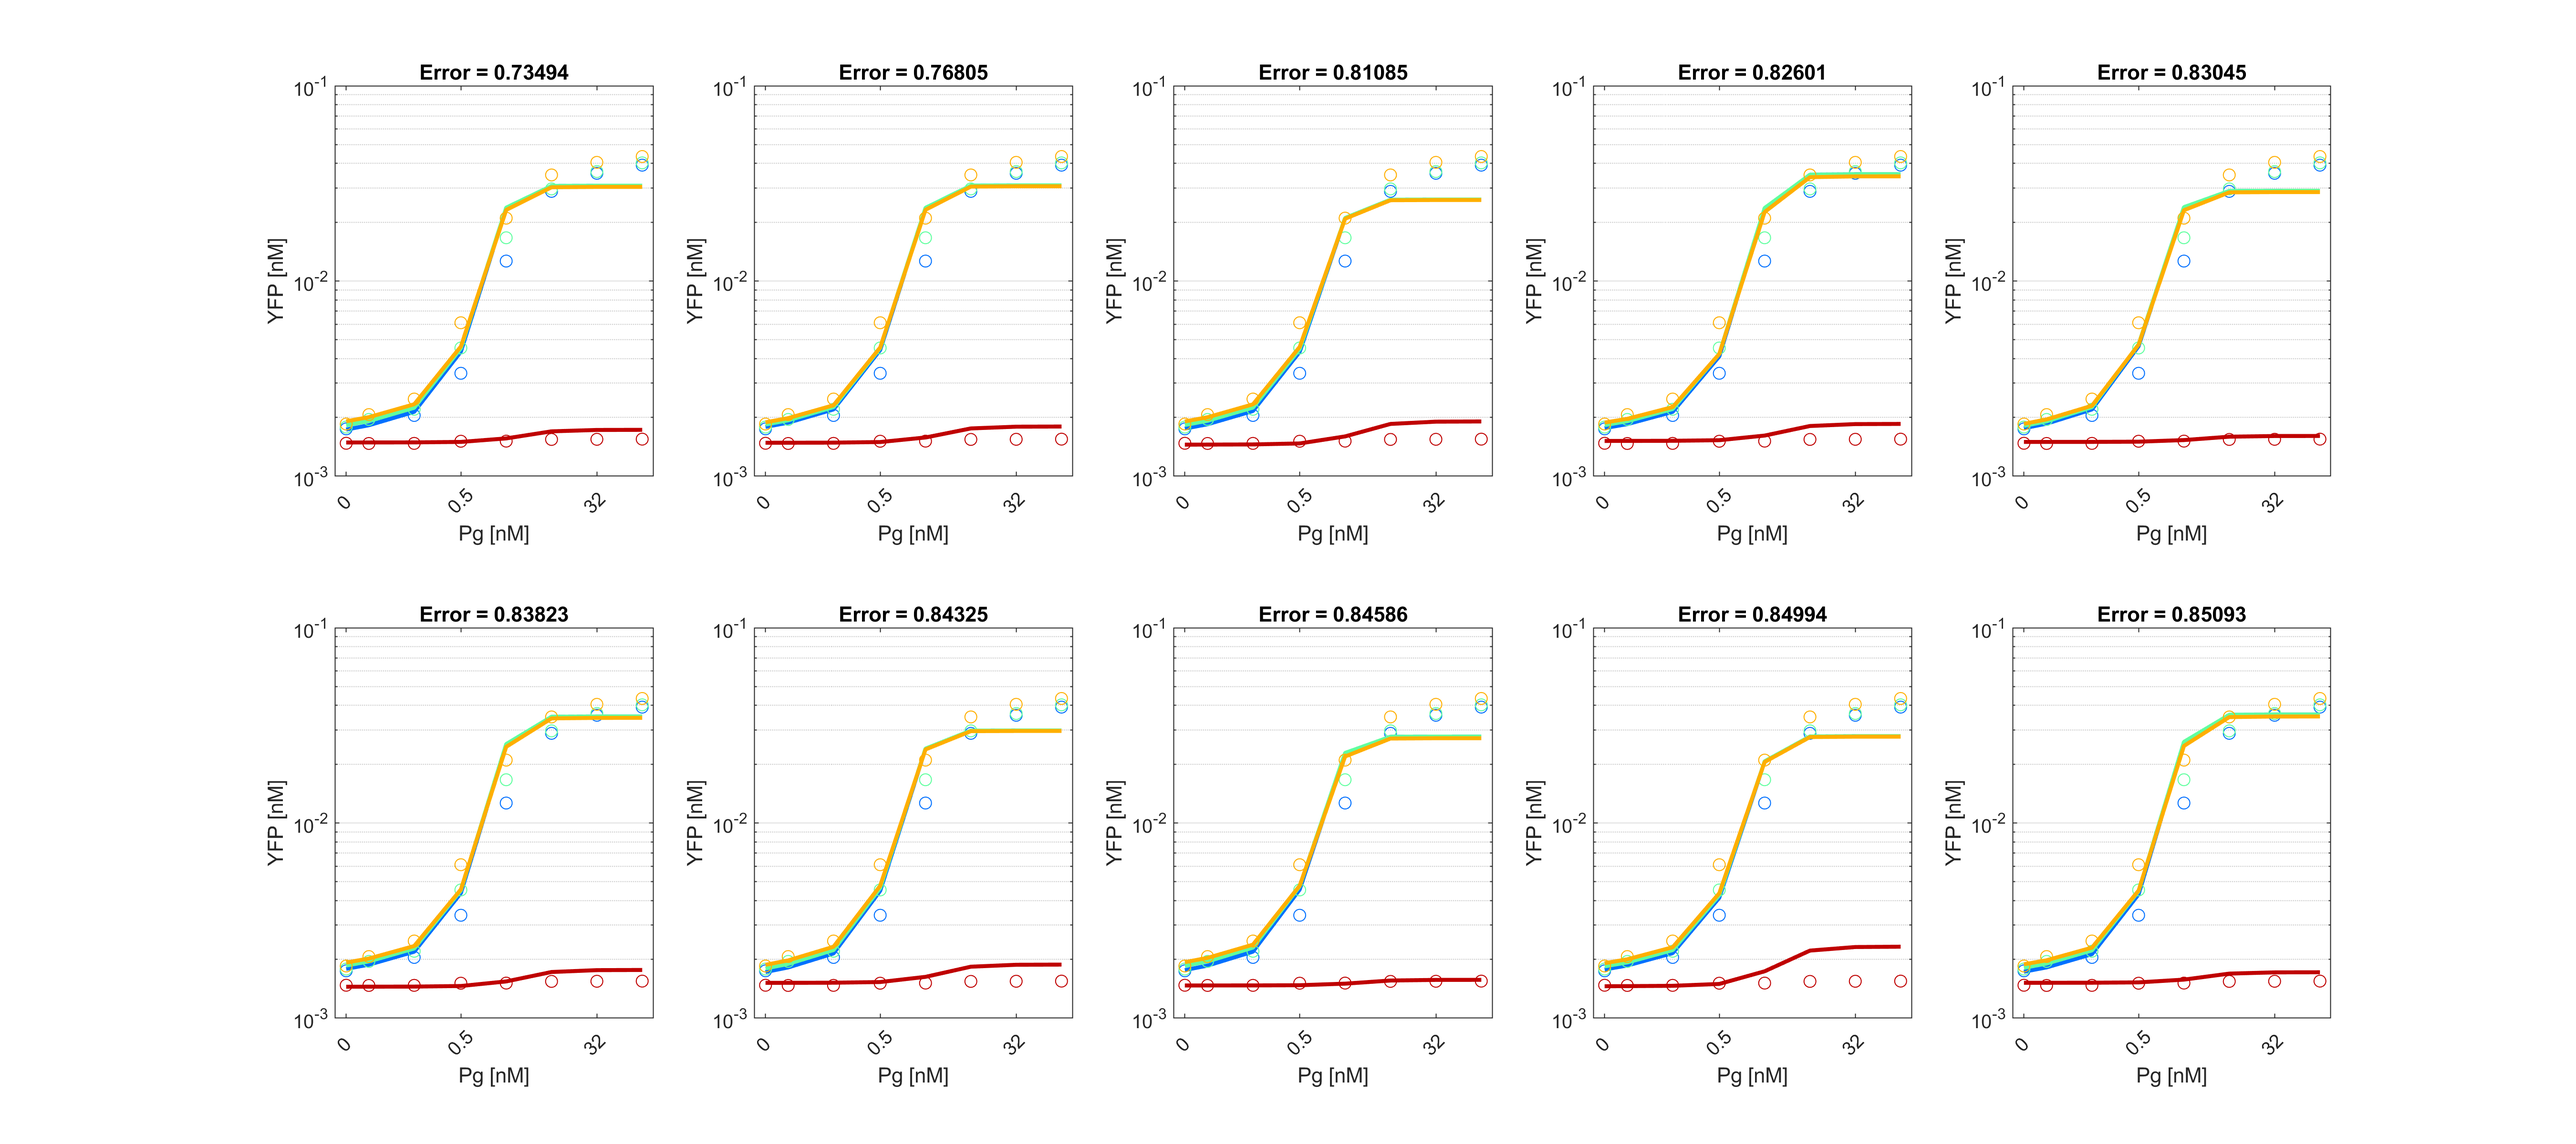
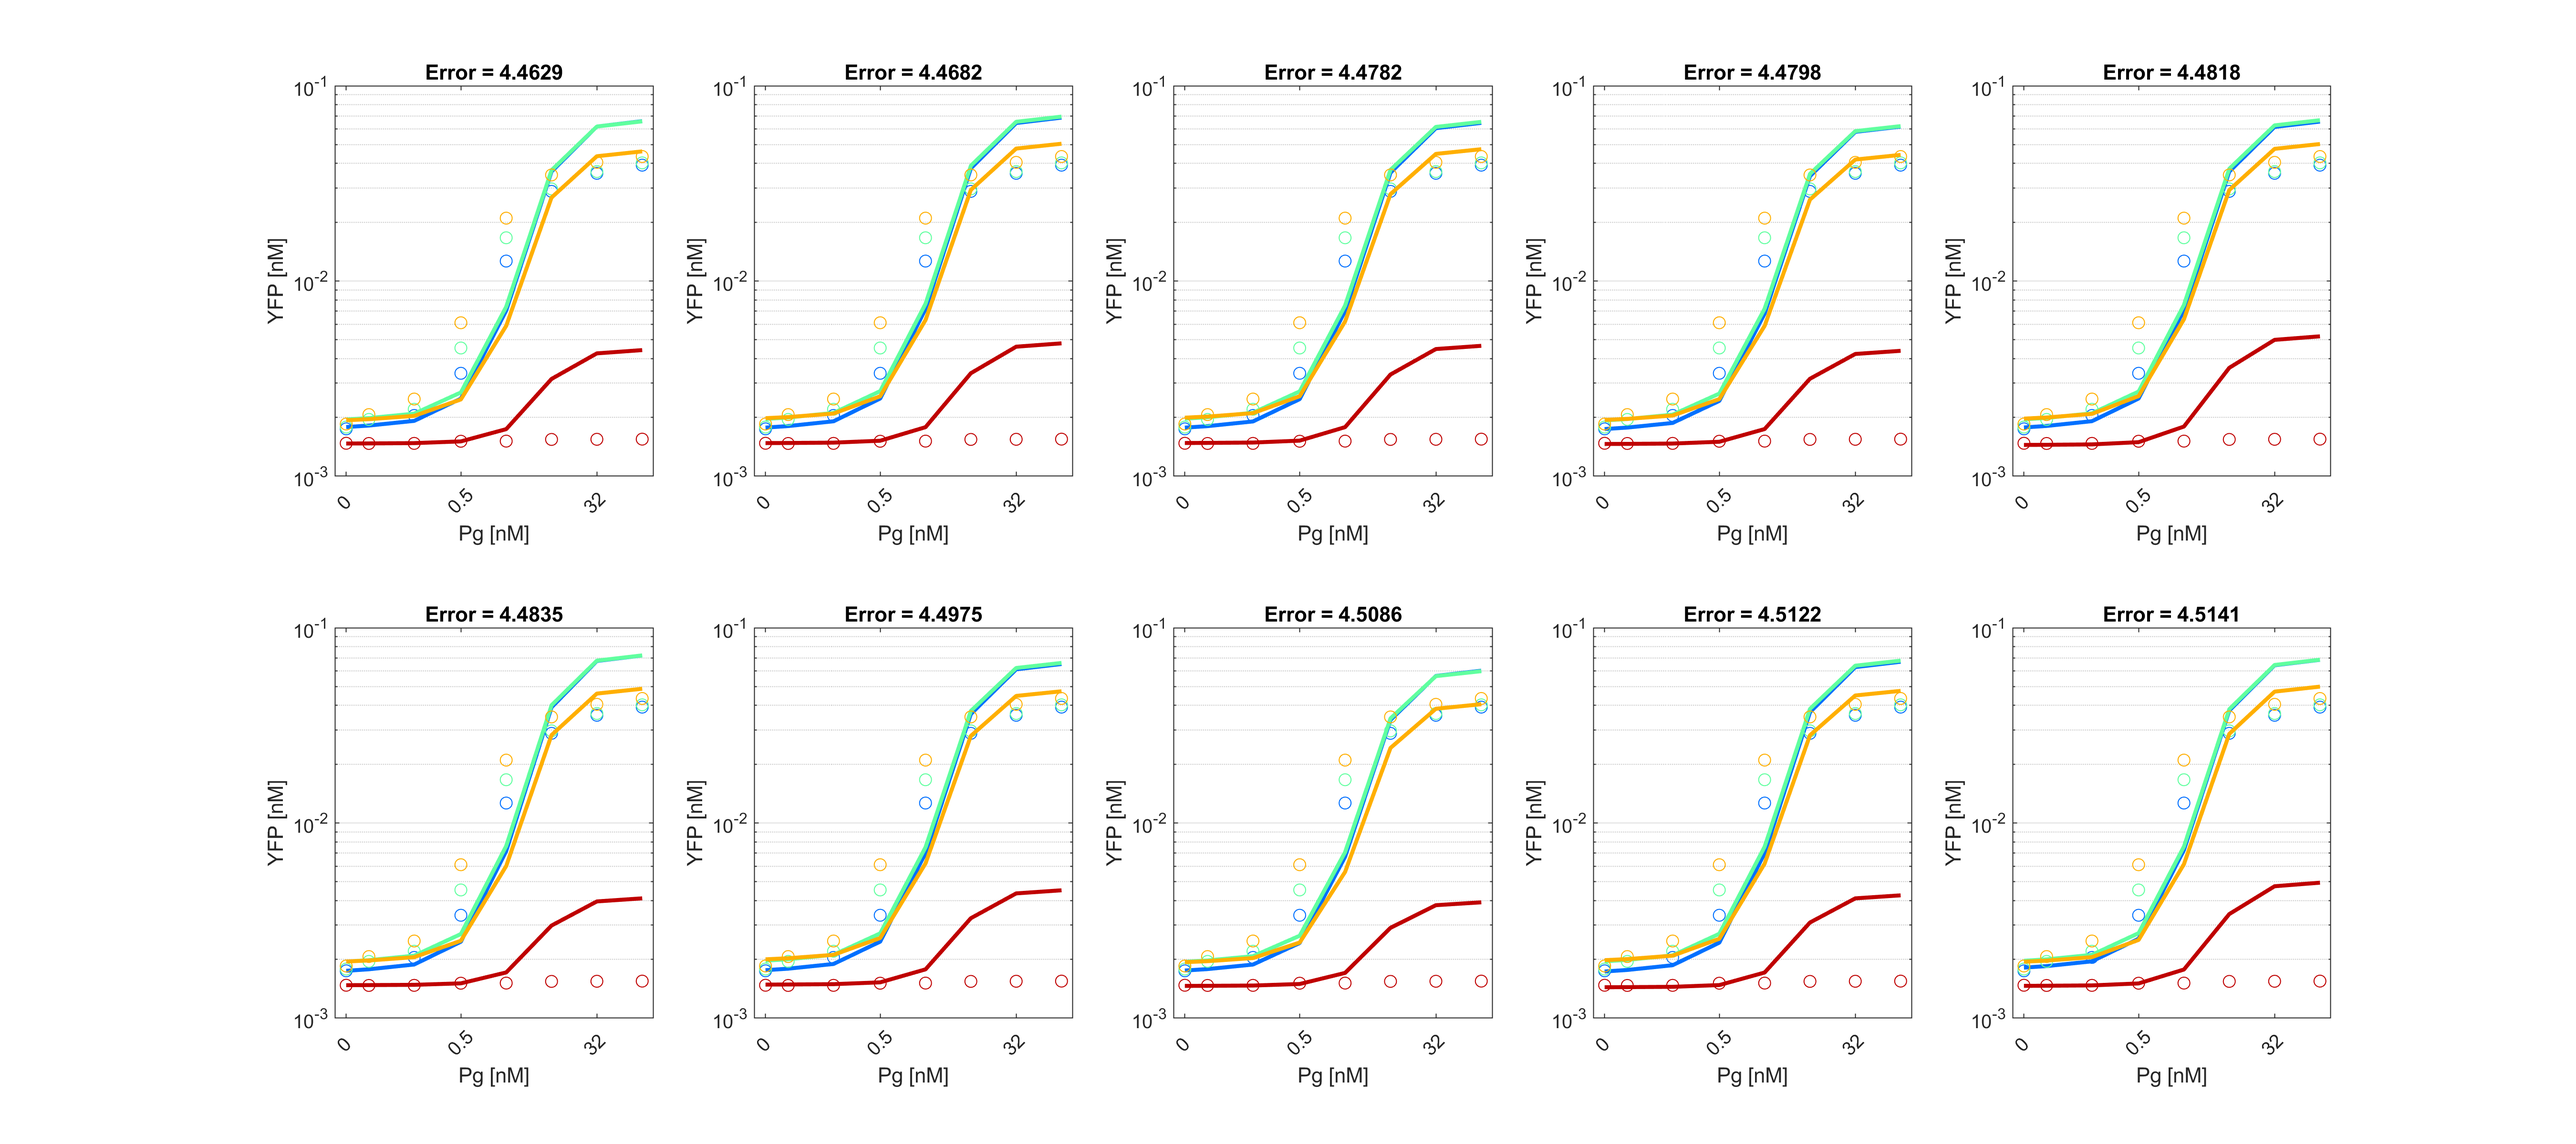
Fifth fitting attempt

diff --git a/RUN_FitMRW.m b/RUN_FitMRW.m
@@ -73,14 +73,6 @@ printAll = 0;   % Flag for printing full random walk
     f(i).par = 'Y_k';
     f(i).cov = 0.1;
     f(i).lim = [1e-4,100];
-    i = i + 1;
-    f(i).par = 'A_m';
-    f(i).cov = 0.1;
-    f(i).lim = [2e-6,2];
-    i = i + 1;
-    f(i).par = 'D_m';
-    f(i).cov = 0.1;
-    f(i).lim = [2e-6,2];
     clear i
 
 %% Run fitting:
